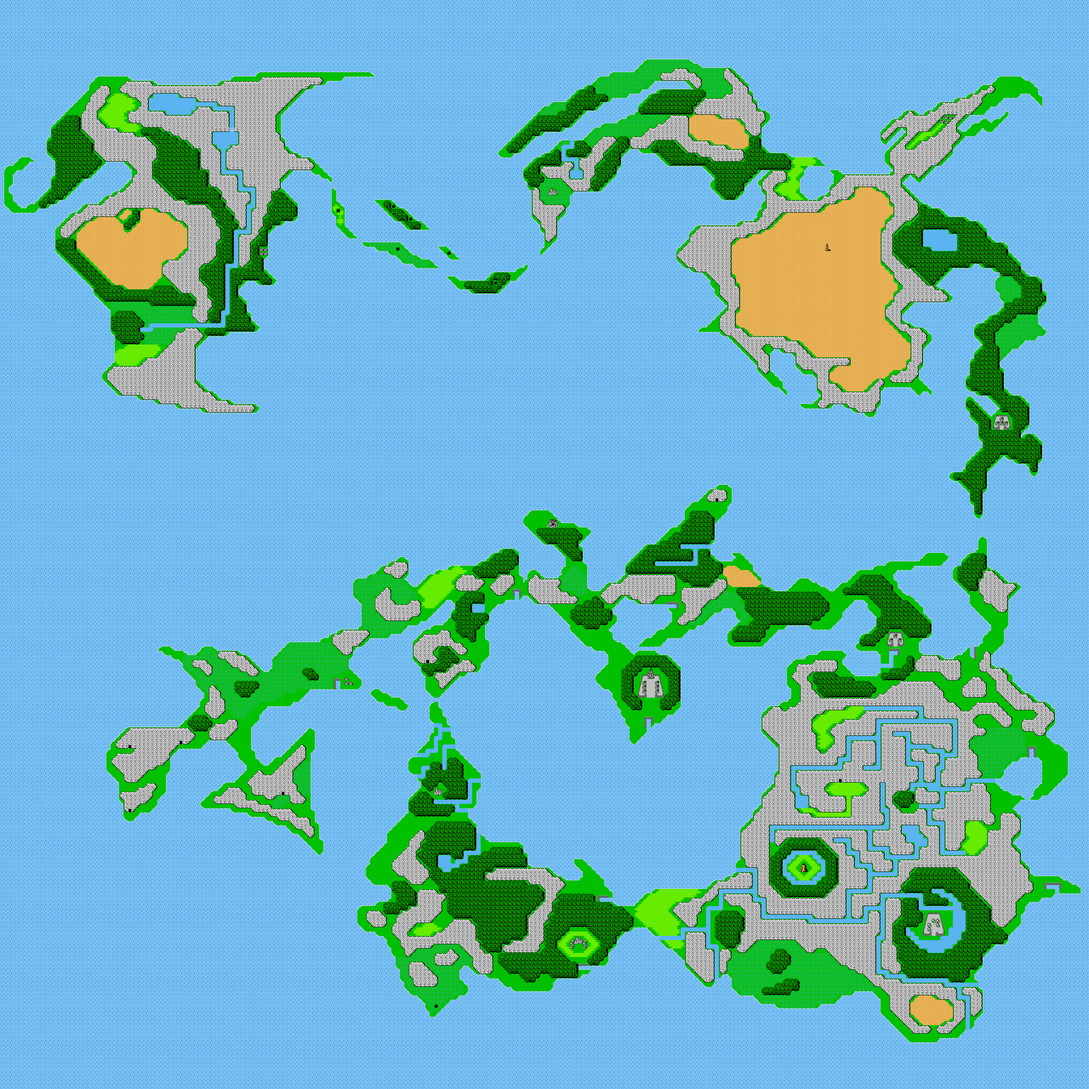
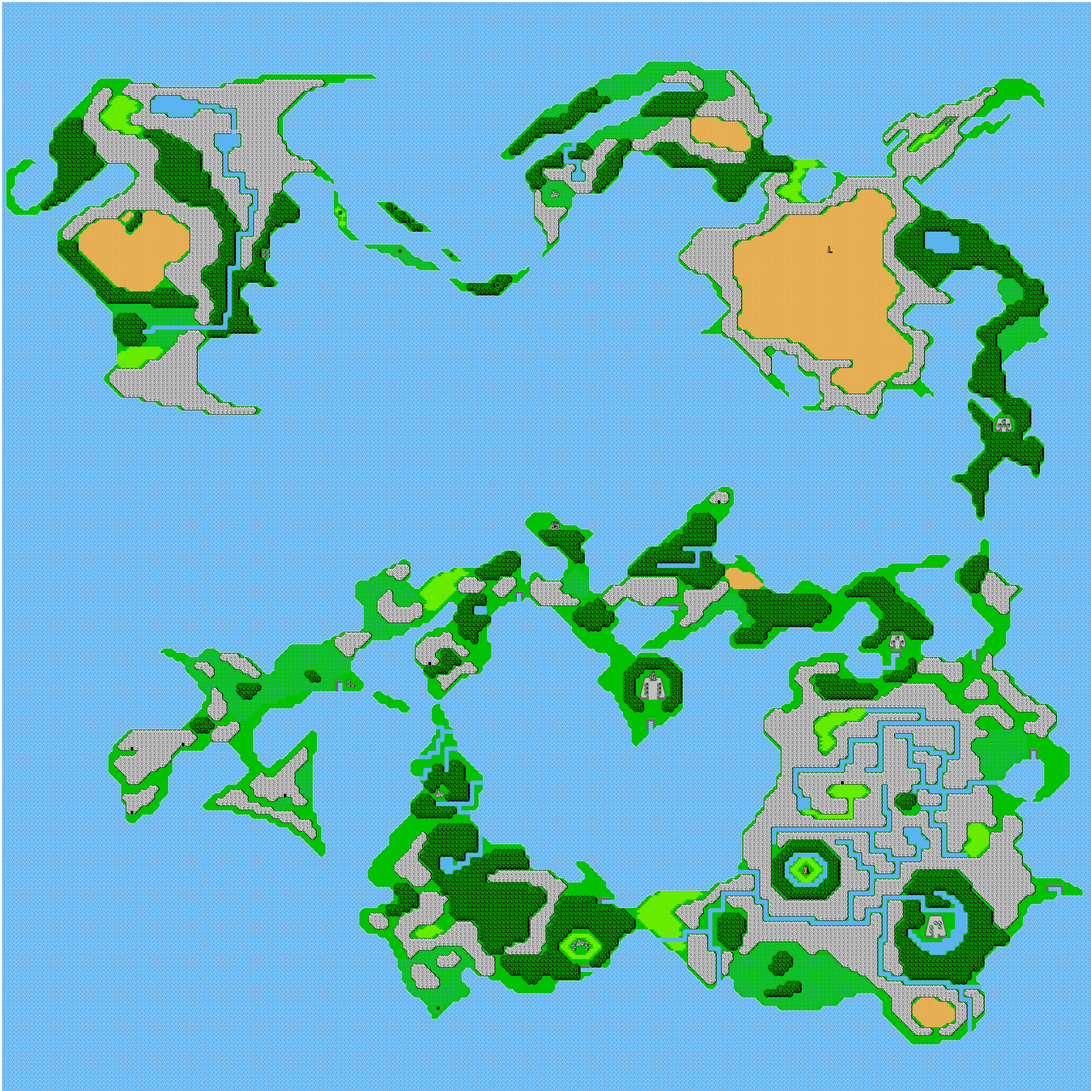
Offsetting worldmap by 8 pixels

diff --git a/index.html b/index.html
@@ -28,6 +28,7 @@
         var player;
         var map;
         var cursors;
+        var context;
 
         var monsters = [
             {
@@ -50,15 +51,17 @@
         }
 
         function create() {
+            context = this;
 
             // Set up arrow keys
             cursors = this.input.keyboard.createCursorKeys();
 
             // Add map
-            map = this.add.image(200, 200, 'map');
+            map = this.add.sprite(0, 0, 'map').setInteractive();
+            map.setOrigin(0, 0);
 
             // Add player and scale down
-            player = this.physics.add.image(300, 300, 'player');
+            player = this.physics.add.image(2400, 2400, 'player');
             player.setScale(0.25, 0.25);
 
             // Camera follows player and is zoomed in
@@ -68,6 +71,13 @@
             // Debug location
             this.input.keyboard.on('keydown-SPACE', function (event) {
                 alert(parseInt(player.x) + ' ' + parseInt(player.y));
+            });
+
+            // Debug grid
+            map.on('pointerdown', function (pointer) {
+                let { x, y } = mouse_location(pointer);
+                let grid_num = pixels_to_grid_num(x, y);
+                draw_grid_square(grid_num);
             });
 
             // Create monsters
@@ -94,6 +104,46 @@
                 player.setVelocityY(100);
             }
         }
+
+        function pixels_to_grid_xy(x, y) {
+            return {
+                x: parseInt((x + 8) / 16), y: parseInt((y + 8) / 16)
+            };
+        }
+
+        function pixels_to_grid_num(pixel_x, pixel_y) {
+            let { x, y } = pixels_to_grid_xy(pixel_x, pixel_y);
+            return (y * 256) + x;
+        }
+
+        function grid_pixel_origin(grid_num) {
+            let y = parseInt(grid_num / 256) * 16;
+            let x = (grid_num % 256) * 16;
+
+            return { x, y };
+        }
+
+        function draw_grid_square(grid_num) {
+            let { x, y } = grid_pixel_origin(grid_num);
+            var r1 = context.add.rectangle(x, y, 16, 16, 0x6666ff);
+            r1.alpha = 0.8;
+        }
+
+        function mouse_location(pointer) {
+            // The player is always the middle of the screen
+            let player_x = window.innerWidth / 2;
+            let player_y = window.innerHeight / 2;
+
+            // Divide by 2 because zoom
+            let offset_x = (pointer.x - player_x) / 2;
+            let offset_y = (pointer.y - player_y) / 2;
+
+            let pixel_x = player.x + offset_x;
+            let pixel_y = player.y + offset_y;
+
+            return { x: pixel_x, y: pixel_y }
+        }
+
     </script>
 
 </body>
